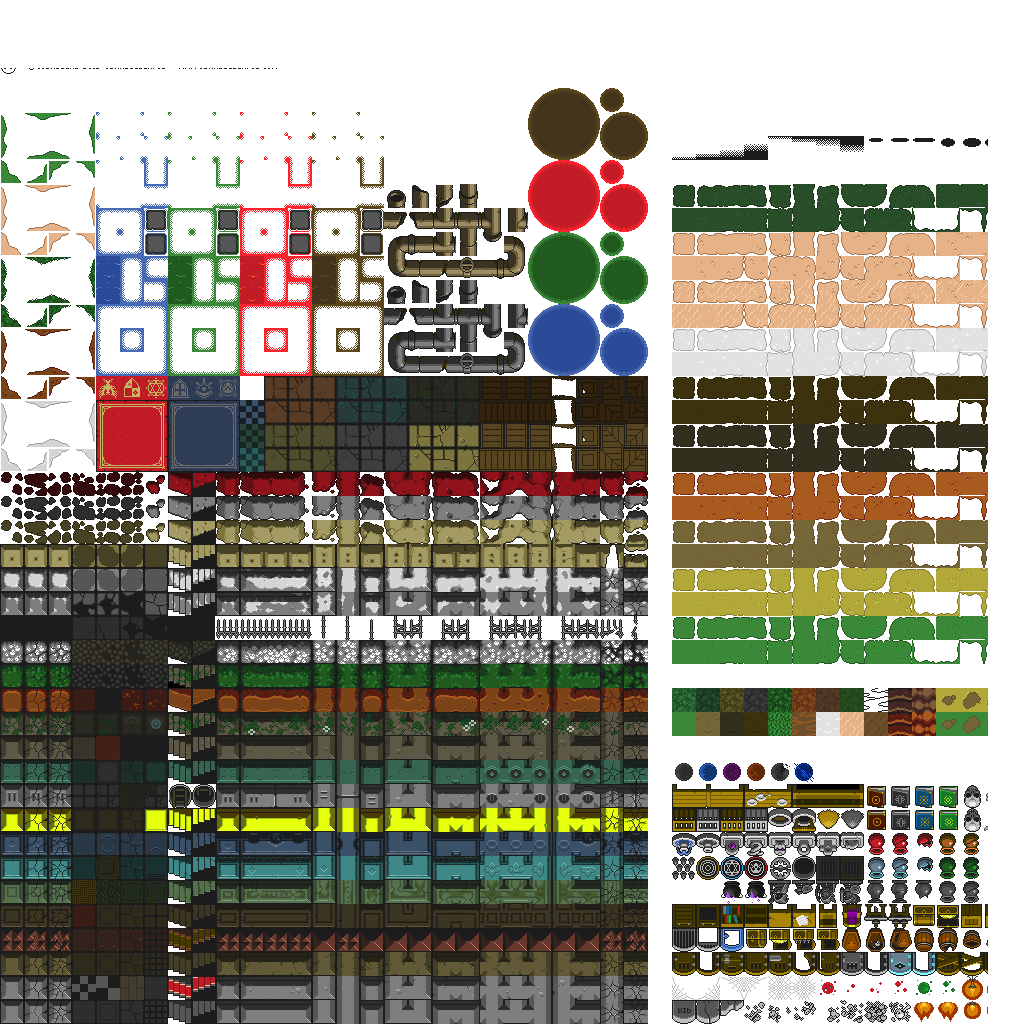
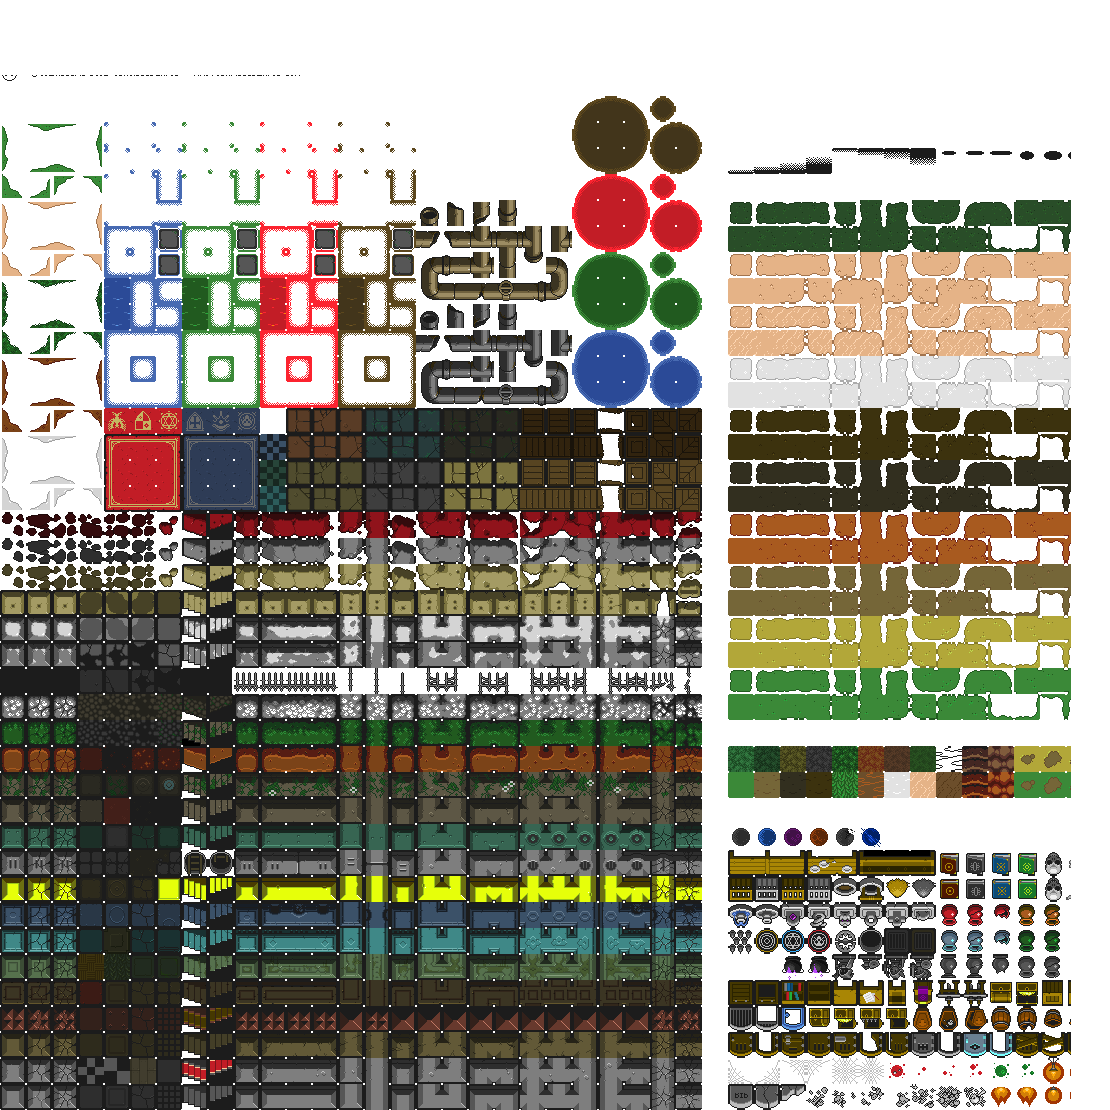
Fix texture shit

diff --git a/assets/js/game.js b/assets/js/game.js
@@ -27,11 +27,11 @@ Game.prototype.run = function(gl) {
 
 	var assets = {
 		maps: ['assets/maps/map.json'],
-		textures: ['assets/images/world.png', 'assets/images/entities.png'],
+		textures: ['assets/images/world.png', 'assets/images/sprites.png'],
 		shaders: [
 			'assets/shaders/base.vert.glsl',
 			'assets/shaders/block.frag.glsl',
-			'assets/shaders/entity.frag.glsl'
+			'assets/shaders/sprite.frag.glsl'
 		]
 	};
 
@@ -48,7 +48,7 @@ Game.prototype.run = function(gl) {
 		*/
 		self.player = new Entity(gl, { x: 10, y: 3 }, 2);
 		self.enemies = [];
-		self.enemies.push(new Entity(gl, { x: 1, y: 1 }, 259,
+		self.enemies.push(new Entity(gl, { x: 1, y: 1 }, 247,
 			EntityType.RANDOM_ENEMY, {
 				t: 1, b: self.map.roomHeight - 1,
 				l: 1, r: self.map.roomWidth - 1
@@ -87,13 +87,13 @@ Game.prototype.initShaders = function(gl) {
 	this.shaderman.createProgram(gl, 'assets/shaders/base.vert.glsl',
 		'assets/shaders/block.frag.glsl', 'block');
 	this.shaderman.createProgram(gl, 'assets/shaders/base.vert.glsl',
-		'assets/shaders/entity.frag.glsl', 'entity');
-	this.shaderman.addUniform(gl, 'entity', 'uFrame');
-	this.shaderman.addUniform(gl, 'entity', 'uTexRowHeight');
-	this.shaderman.useProgram(gl, 'entity');
-	var height = this.assetman.textureDimensions('assets/images/entities.png').h;
+		'assets/shaders/sprite.frag.glsl', 'sprite');
+	this.shaderman.addUniform(gl, 'sprite', 'uFrame');
+	this.shaderman.addUniform(gl, 'sprite', 'uTexRowHeight');
+	this.shaderman.useProgram(gl, 'sprite');
+	var height = this.assetman.textureDimensions('assets/images/sprites.png').h;
 	var rowHeight = 24 / height;
-	gl.uniform1f(this.shaderman.getProgram('entity').uTexRowHeight, rowHeight);
+	gl.uniform1f(this.shaderman.getProgram('sprite').uTexRowHeight, rowHeight);
 };
 
 Game.prototype.update = function(ticks) {

diff --git a/assets/js/entity.js b/assets/js/entity.js
@@ -40,12 +40,14 @@ var Entity = function(gl, pos, ent, type, bounds) {
 
 	this.path = [];
 
-	var texDim = this.assetman.textureDimensions('assets/images/entities.png');
+	var texDim = this.assetman.textureDimensions('assets/images/sprites.png');
 
-	var tileX = (this.entity % Math.floor(texDim.w / this.tileSize))
-		* this.tileSize / texDim.w;
-	var tileY = Math.floor(this.entity / Math.floor(texDim.w / this.tileSize))
+	var tileX = (ent % Math.floor(texDim.w / this.tileSize)) * this.tileSize
+		/ texDim.w;
+	var tileY = Math.floor(ent / Math.floor(texDim.w / this.tileSize))
 		* this.tileSize / texDim.h;
+
+	console.log('x: ' + tileX + ', y: ' + tileY);
 
 	var verts = [
 		0, 0, 0.1,
@@ -181,7 +183,7 @@ Entity.prototype.setDirection = function(dir) {
 };
 
 Entity.prototype.render = function(gl) {
-	this.prog = this.shaderman.useProgram(gl, 'entity');
+	this.prog = this.shaderman.useProgram(gl, 'sprite');
 	gl.uniform1f(this.prog.uFrame, this.frame);
 
 	mat4.identity(this.mvMatrix);
@@ -208,7 +210,7 @@ Entity.prototype.render = function(gl) {
 		this.texBuf.itemSize, gl.FLOAT, false, 0, 0);
 
 	gl.activeTexture(gl.TEXTURE0);
-	this.assetman.useTexture(gl, 'assets/images/entities.png');
+	this.assetman.useTexture(gl, 'assets/images/sprites.png');
 	gl.uniform1i(this.prog.uSampler, 0);
 
 	gl.bindBuffer(gl.ELEMENT_ARRAY_BUFFER, this.indexBuf);

diff --git a/assets/js/tile.js b/assets/js/tile.js
@@ -1,5 +1,8 @@
 var Tile = function(gl, pos, tile, walkable, depth) {
 	this.tileSize = 24;
+	this.spacing = 2;
+	this.margin = 1;
+
 	this.type = tile;
 	this.walkable = walkable;
 
@@ -23,10 +26,13 @@ var Tile = function(gl, pos, tile, walkable, depth) {
 
 	var texDim = this.assetman.textureDimensions('assets/images/world.png');
 
-	var tileX = (tile % Math.floor(texDim.w / this.tileSize)) * this.tileSize
-		/ texDim.w;
-	var tileY = Math.floor(tile / Math.floor(texDim.w / this.tileSize))
-		* this.tileSize / texDim.h;
+	var tilesetW = Math.floor(texDim.w / (this.tileSize + this.spacing));
+	var tilesetH = Math.floor(texDim.h / (this.tileSize + this.spacing));
+
+	var tileX = (tile % tilesetW) * (this.tileSize + this.spacing) / texDim.w
+		+ this.margin / texDim.w;
+	var tileY = Math.floor(tile / tilesetH) * (this.tileSize + this.spacing)
+		/ texDim.h + this.margin / texDim.h;
 
 	var verts = [
 		0, 0, depth,
